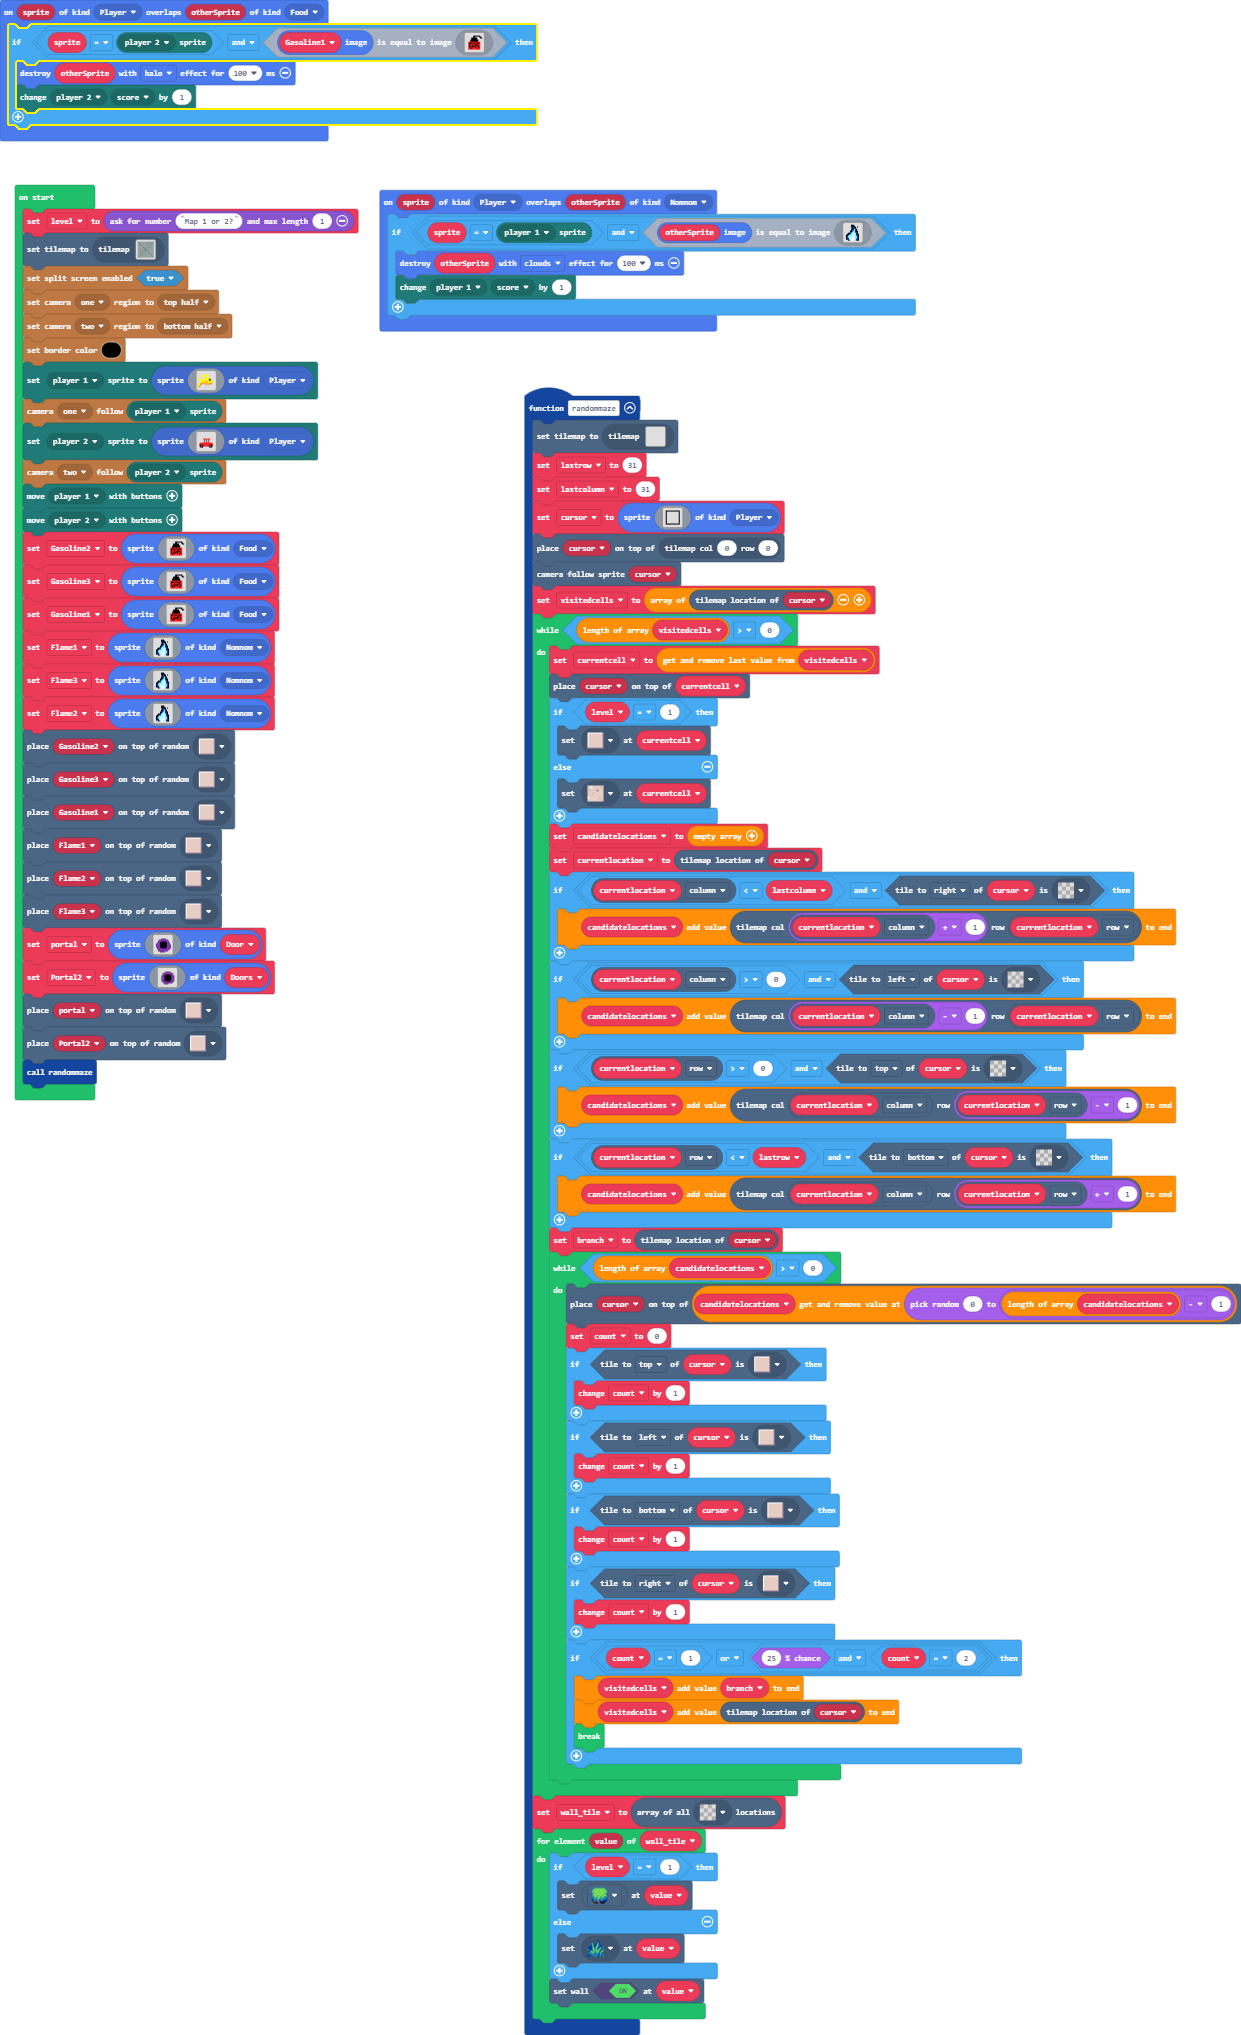
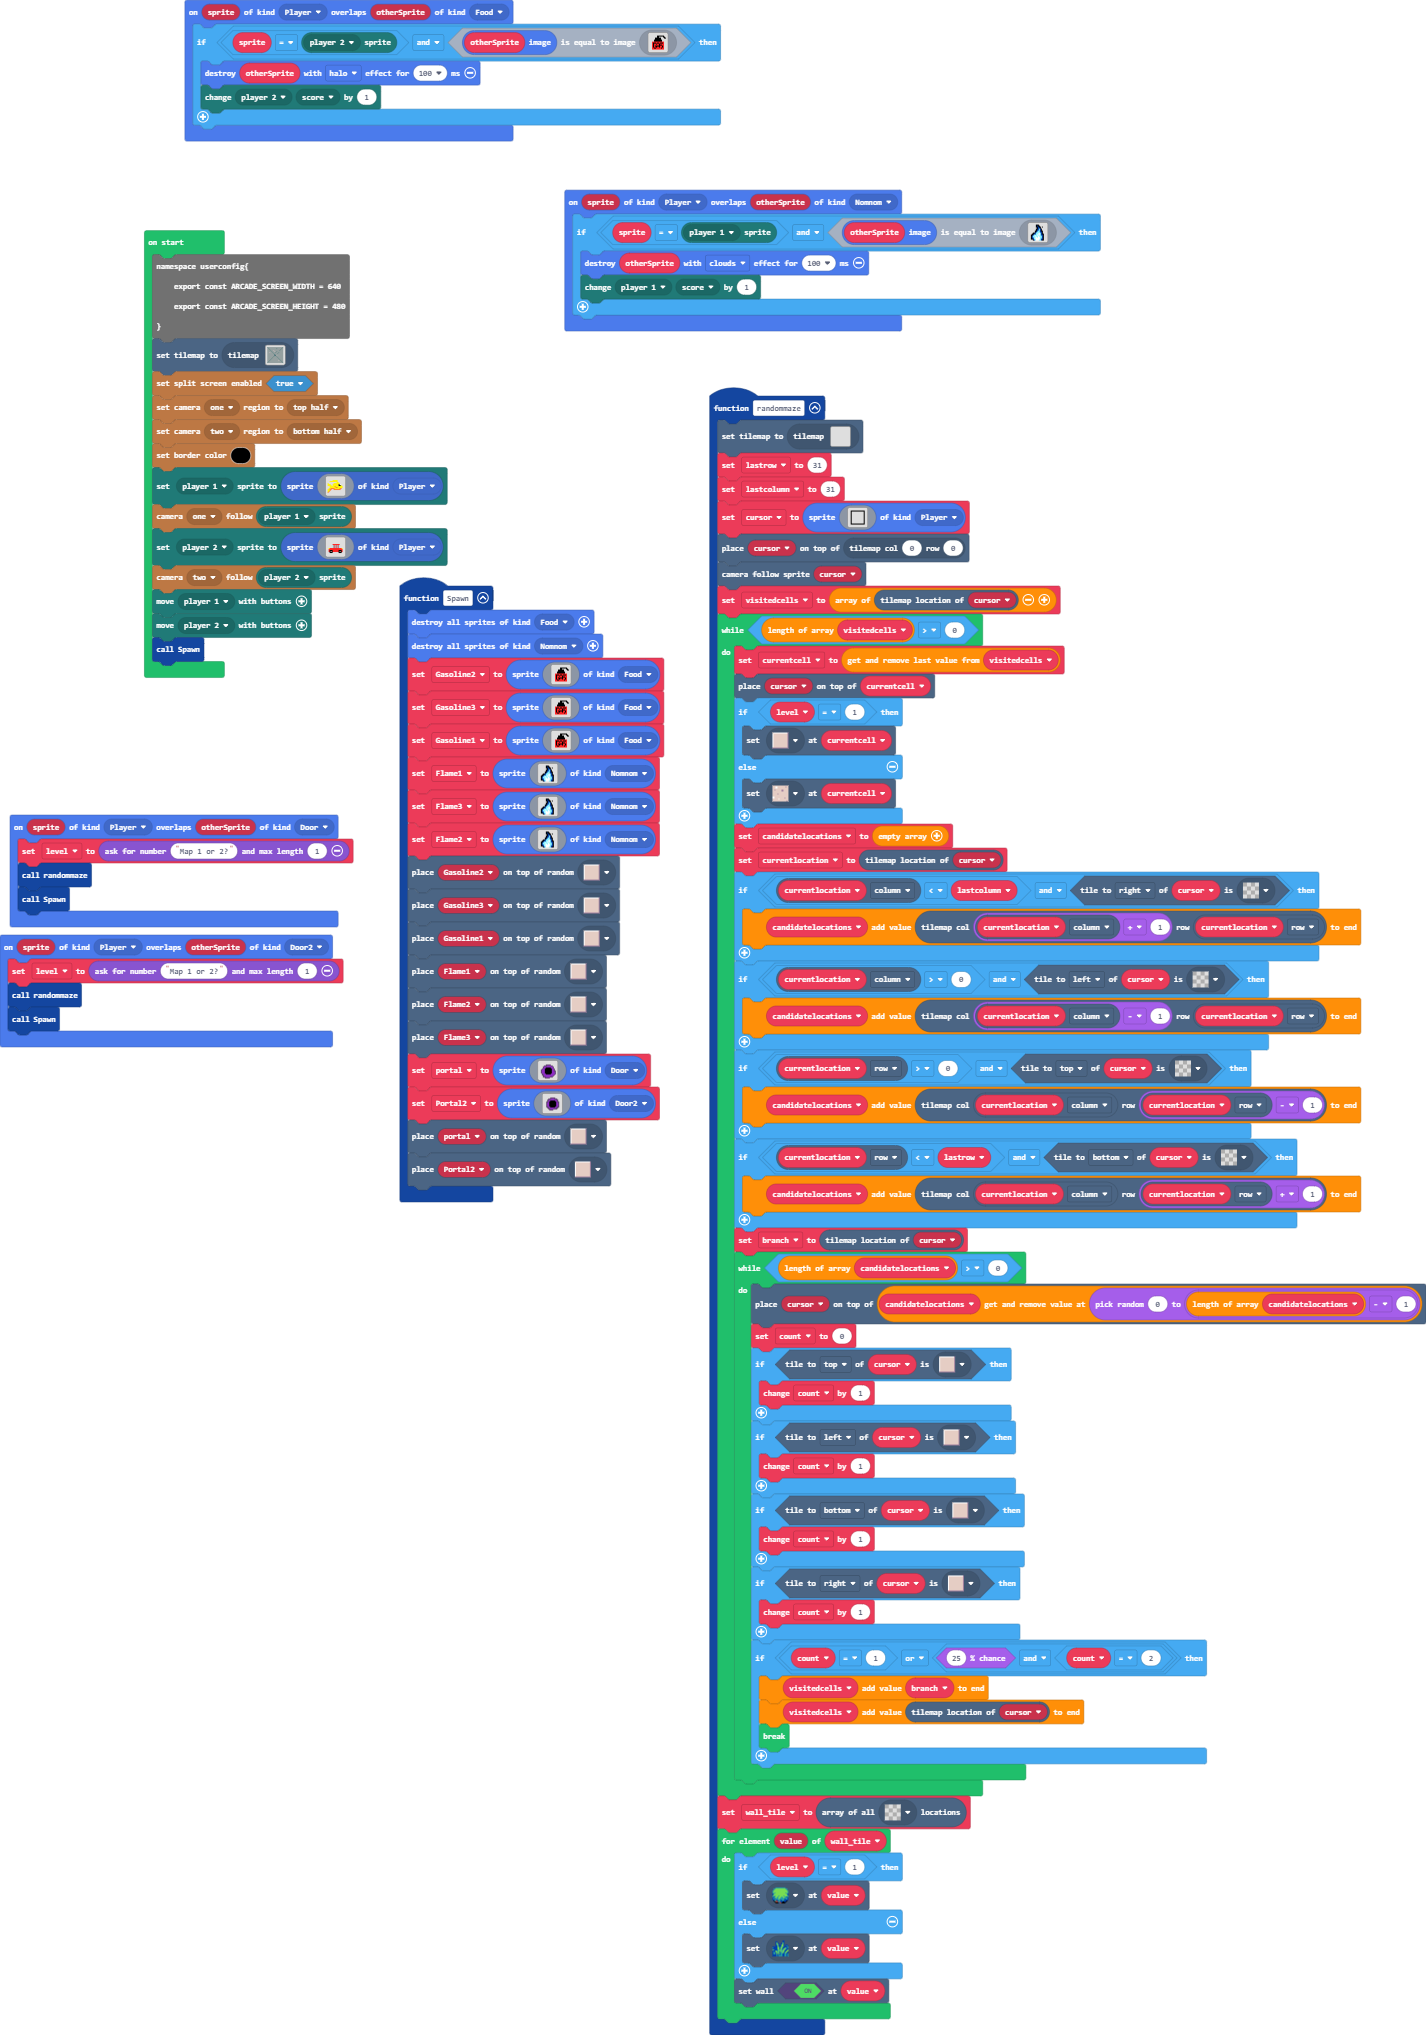
portals and other function

diff --git a/main.ts b/main.ts
@@ -1,5 +1,7 @@
 namespace SpriteKind {
     export const Nomnom = SpriteKind.create()
+    export const Door2 = SpriteKind.create()
+    export const Door = SpriteKind.create()
 }
 function randommaze () {
     tiles.setCurrentTilemap(tilemap`level2`)
@@ -81,6 +83,11 @@ function randommaze () {
         tiles.setWallAt(value, true)
     }
 }
+sprites.onOverlap(SpriteKind.Player, SpriteKind.Door, function (sprite, otherSprite) {
+    level = game.askForNumber("Map 1 or 2?", 1)
+    randommaze()
+    Spawn()
+})
 sprites.onOverlap(SpriteKind.Player, SpriteKind.Nomnom, function (sprite, otherSprite) {
     if (sprite == mp.getPlayerSprite(mp.playerSelector(mp.PlayerNumber.One)) && otherSprite.image.equals(img`
         . . . . . . f f f . . . . . . . 
@@ -104,27 +111,145 @@ sprites.onOverlap(SpriteKind.Player, SpriteKind.Nomnom, function (sprite, otherS
         mp.changePlayerStateBy(mp.playerSelector(mp.PlayerNumber.One), MultiplayerState.score, 1)
     }
 })
+function Spawn () {
+    sprites.destroyAllSpritesOfKind(SpriteKind.Food)
+    sprites.destroyAllSpritesOfKind(SpriteKind.Nomnom)
+    Gasoline2 = sprites.create(assets.image`myImage`, SpriteKind.Food)
+    Gasoline3 = sprites.create(assets.image`myImage`, SpriteKind.Food)
+    Gasoline1 = sprites.create(assets.image`myImage`, SpriteKind.Food)
+    Flame1 = sprites.create(img`
+        . . . . . . f f f . . . . . . . 
+        . . . . . . f 8 f f . . . . . . 
+        . . . . . . f f 8 f f . f . . . 
+        . . . . . . . f 8 8 f . . . . . 
+        . . . . . . f f 8 9 8 f . . . . 
+        . . . . . . f 8 8 9 8 f . . . . 
+        . . . . . f f 8 9 9 8 f f . . . 
+        . . . . . f 8 9 9 9 8 8 f . . . 
+        . . . f f 8 9 9 9 1 9 8 f . . . 
+        . . f f 8 8 9 9 1 1 9 8 f f . . 
+        . f f 8 9 9 9 1 9 1 9 8 8 f . . 
+        . f 8 9 9 1 9 9 1 9 9 9 8 f . . 
+        . f 8 9 9 9 1 9 1 1 9 9 8 f . . 
+        . f 8 8 9 1 1 1 1 1 9 9 8 f . . 
+        . f f 8 9 9 1 1 1 1 9 8 8 f . . 
+        . . . f 8 9 1 1 1 9 9 8 f f . . 
+        `, SpriteKind.Nomnom)
+    Flame3 = sprites.create(img`
+        . . . . . . f f f . . . . . . . 
+        . . . . . . f 8 f f . . . . . . 
+        . . . . . . f f 8 f f . f . . . 
+        . . . . . . . f 8 8 f . . . . . 
+        . . . . . . f f 8 9 8 f . . . . 
+        . . . . . . f 8 8 9 8 f . . . . 
+        . . . . . f f 8 9 9 8 f f . . . 
+        . . . . . f 8 9 9 9 8 8 f . . . 
+        . . . f f 8 9 9 9 1 9 8 f . . . 
+        . . f f 8 8 9 9 1 1 9 8 f f . . 
+        . f f 8 9 9 9 1 9 1 9 8 8 f . . 
+        . f 8 9 9 1 9 9 1 9 9 9 8 f . . 
+        . f 8 9 9 9 1 9 1 1 9 9 8 f . . 
+        . f 8 8 9 1 1 1 1 1 9 9 8 f . . 
+        . f f 8 9 9 1 1 1 1 9 8 8 f . . 
+        . . . f 8 9 1 1 1 9 9 8 f f . . 
+        `, SpriteKind.Nomnom)
+    Flame2 = sprites.create(img`
+        . . . . . . f f f . . . . . . . 
+        . . . . . . f 8 f f . . . . . . 
+        . . . . . . f f 8 f f . f . . . 
+        . . . . . . . f 8 8 f . . . . . 
+        . . . . . . f f 8 9 8 f . . . . 
+        . . . . . . f 8 8 9 8 f . . . . 
+        . . . . . f f 8 9 9 8 f f . . . 
+        . . . . . f 8 9 9 9 8 8 f . . . 
+        . . . f f 8 9 9 9 1 9 8 f . . . 
+        . . f f 8 8 9 9 1 1 9 8 f f . . 
+        . f f 8 9 9 9 1 9 1 9 8 8 f . . 
+        . f 8 9 9 1 9 9 1 9 9 9 8 f . . 
+        . f 8 9 9 9 1 9 1 1 9 9 8 f . . 
+        . f 8 8 9 1 1 1 1 1 9 9 8 f . . 
+        . f f 8 9 9 1 1 1 1 9 8 8 f . . 
+        . . . f 8 9 1 1 1 9 9 8 f f . . 
+        `, SpriteKind.Nomnom)
+    tiles.placeOnRandomTile(Gasoline2, sprites.dungeon.floorLight2)
+    tiles.placeOnRandomTile(Gasoline3, sprites.dungeon.floorLight2)
+    tiles.placeOnRandomTile(Gasoline1, sprites.dungeon.floorLight2)
+    tiles.placeOnRandomTile(Flame1, sprites.dungeon.floorLight2)
+    tiles.placeOnRandomTile(Flame2, sprites.dungeon.floorLight2)
+    tiles.placeOnRandomTile(Flame3, sprites.dungeon.floorLight2)
+    portal = sprites.create(img`
+        . . . . . . . . . . . . . . . . 
+        . . . . . . . . . . . . . . . . 
+        . . . . . . c c c c c . . . . . 
+        . . . . c c c a a a a c c . . . 
+        . . . c a a a a a a a a a c . . 
+        . . . c a a f f f f f a a c . . 
+        . . c a a f f f f f f f a a c . 
+        . c a a a f f f f f f f a a c . 
+        . c a a a f f f f f f f a a c c 
+        . c a a a f f f f f f f a a a c 
+        . c a a a f f f f f f f a a a c 
+        . . c a a a f f f f f a a a a c 
+        . . c c a a a a a a a a a a c . 
+        . . . c a a a a a a a a a c . . 
+        . . . c c c a a a a c c c . . . 
+        . . . . . c c c c c . . . . . . 
+        `, SpriteKind.Door)
+    Portal2 = sprites.create(img`
+        . . . . . . . . . . . . . . . . 
+        . . . . . . . . . . . . . . . . 
+        . . . . . . c c c c c . . . . . 
+        . . . . c c c a a a c c c . . . 
+        . . . c c a a a a a a a c c . . 
+        . . . c a a f f f f f a a c . . 
+        . . c c a f f f f f f f a c c . 
+        . . c a a f f f f f f f a a c . 
+        . . c a a f f f f f f f a a c . 
+        . . c a a f f f f f f f a a c . 
+        . . c a a f f f f f f f a a c . 
+        . . c c a a f f f f f a a c c . 
+        . . . c c a a a a a a a c c . . 
+        . . . . c c a a a c c c c . . . 
+        . . . . . c c c c . . . . . . . 
+        . . . . . . . . . . . . . . . . 
+        `, SpriteKind.Door2)
+    tiles.placeOnRandomTile(portal, sprites.dungeon.floorLight2)
+    tiles.placeOnRandomTile(Portal2, sprites.dungeon.floorLight2)
+}
 sprites.onOverlap(SpriteKind.Player, SpriteKind.Food, function (sprite, otherSprite) {
-    if (sprite == mp.getPlayerSprite(mp.playerSelector(mp.PlayerNumber.Two)) && Gasoline1.image.equals(assets.image`myImage`)) {
+    if (sprite == mp.getPlayerSprite(mp.playerSelector(mp.PlayerNumber.Two)) && otherSprite.image.equals(assets.image`myImage`)) {
         sprites.destroy(otherSprite, effects.halo, 100)
         mp.changePlayerStateBy(mp.playerSelector(mp.PlayerNumber.Two), MultiplayerState.score, 1)
     }
 })
+sprites.onOverlap(SpriteKind.Player, SpriteKind.Door2, function (sprite, otherSprite) {
+    level = game.askForNumber("Map 1 or 2?", 1)
+    randommaze()
+    Spawn()
+})
+let Portal2: Sprite = null
+let portal: Sprite = null
+let Flame2: Sprite = null
+let Flame3: Sprite = null
+let Flame1: Sprite = null
+let Gasoline1: Sprite = null
+let Gasoline3: Sprite = null
+let Gasoline2: Sprite = null
 let wall_tile: tiles.Location[] = []
 let count = 0
 let branch: tiles.Location = null
 let currentlocation: tiles.Location = null
 let candidatelocations: tiles.Location[] = []
+let level = 0
 let currentcell: tiles.Location = null
 let visitedcells: tiles.Location[] = []
 let cursor: Sprite = null
 let lastcolumn = 0
 let lastrow = 0
-let Doors = 0
-let Door = 0
-let Gasoline1: Sprite = null
-let level = 0
-level = game.askForNumber("Map 1 or 2?", 1)
+namespace userconfig{
+    export const ARCADE_SCREEN_WIDTH = 640
+    export const ARCADE_SCREEN_HEIGHT = 480
+}
 tiles.setCurrentTilemap(tilemap`level3`)
 splitScreen.setSplitScreenEnabled(true)
 splitScreen.setCameraRegion(splitScreen.Camera.Camera1, splitScreen.CameraRegion.HorizontalTopHalf)
@@ -170,105 +295,4 @@ mp.setPlayerSprite(mp.playerSelector(mp.PlayerNumber.Two), sprites.create(img`
 splitScreen.cameraFollowSprite(splitScreen.Camera.Camera2, mp.getPlayerSprite(mp.playerSelector(mp.PlayerNumber.Two)))
 mp.moveWithButtons(mp.playerSelector(mp.PlayerNumber.One))
 mp.moveWithButtons(mp.playerSelector(mp.PlayerNumber.Two))
-let Gasoline2 = sprites.create(assets.image`myImage`, SpriteKind.Food)
-let Gasoline3 = sprites.create(assets.image`myImage`, SpriteKind.Food)
-Gasoline1 = sprites.create(assets.image`myImage`, SpriteKind.Food)
-let Flame1 = sprites.create(img`
-    . . . . . . f f f . . . . . . . 
-    . . . . . . f 8 f f . . . . . . 
-    . . . . . . f f 8 f f . f . . . 
-    . . . . . . . f 8 8 f . . . . . 
-    . . . . . . f f 8 9 8 f . . . . 
-    . . . . . . f 8 8 9 8 f . . . . 
-    . . . . . f f 8 9 9 8 f f . . . 
-    . . . . . f 8 9 9 9 8 8 f . . . 
-    . . . f f 8 9 9 9 1 9 8 f . . . 
-    . . f f 8 8 9 9 1 1 9 8 f f . . 
-    . f f 8 9 9 9 1 9 1 9 8 8 f . . 
-    . f 8 9 9 1 9 9 1 9 9 9 8 f . . 
-    . f 8 9 9 9 1 9 1 1 9 9 8 f . . 
-    . f 8 8 9 1 1 1 1 1 9 9 8 f . . 
-    . f f 8 9 9 1 1 1 1 9 8 8 f . . 
-    . . . f 8 9 1 1 1 9 9 8 f f . . 
-    `, SpriteKind.Nomnom)
-let Flame3 = sprites.create(img`
-    . . . . . . f f f . . . . . . . 
-    . . . . . . f 8 f f . . . . . . 
-    . . . . . . f f 8 f f . f . . . 
-    . . . . . . . f 8 8 f . . . . . 
-    . . . . . . f f 8 9 8 f . . . . 
-    . . . . . . f 8 8 9 8 f . . . . 
-    . . . . . f f 8 9 9 8 f f . . . 
-    . . . . . f 8 9 9 9 8 8 f . . . 
-    . . . f f 8 9 9 9 1 9 8 f . . . 
-    . . f f 8 8 9 9 1 1 9 8 f f . . 
-    . f f 8 9 9 9 1 9 1 9 8 8 f . . 
-    . f 8 9 9 1 9 9 1 9 9 9 8 f . . 
-    . f 8 9 9 9 1 9 1 1 9 9 8 f . . 
-    . f 8 8 9 1 1 1 1 1 9 9 8 f . . 
-    . f f 8 9 9 1 1 1 1 9 8 8 f . . 
-    . . . f 8 9 1 1 1 9 9 8 f f . . 
-    `, SpriteKind.Nomnom)
-let Flame2 = sprites.create(img`
-    . . . . . . f f f . . . . . . . 
-    . . . . . . f 8 f f . . . . . . 
-    . . . . . . f f 8 f f . f . . . 
-    . . . . . . . f 8 8 f . . . . . 
-    . . . . . . f f 8 9 8 f . . . . 
-    . . . . . . f 8 8 9 8 f . . . . 
-    . . . . . f f 8 9 9 8 f f . . . 
-    . . . . . f 8 9 9 9 8 8 f . . . 
-    . . . f f 8 9 9 9 1 9 8 f . . . 
-    . . f f 8 8 9 9 1 1 9 8 f f . . 
-    . f f 8 9 9 9 1 9 1 9 8 8 f . . 
-    . f 8 9 9 1 9 9 1 9 9 9 8 f . . 
-    . f 8 9 9 9 1 9 1 1 9 9 8 f . . 
-    . f 8 8 9 1 1 1 1 1 9 9 8 f . . 
-    . f f 8 9 9 1 1 1 1 9 8 8 f . . 
-    . . . f 8 9 1 1 1 9 9 8 f f . . 
-    `, SpriteKind.Nomnom)
-tiles.placeOnRandomTile(Gasoline2, sprites.dungeon.floorLight2)
-tiles.placeOnRandomTile(Gasoline3, sprites.dungeon.floorLight2)
-tiles.placeOnRandomTile(Gasoline1, sprites.dungeon.floorLight2)
-tiles.placeOnRandomTile(Flame1, sprites.dungeon.floorLight2)
-tiles.placeOnRandomTile(Flame2, sprites.dungeon.floorLight2)
-tiles.placeOnRandomTile(Flame3, sprites.dungeon.floorLight2)
-let portal = sprites.create(img`
-    . . . . . . . . . . . . . . . . 
-    . . . . . . . . . . . . . . . . 
-    . . . . . . c c c c c . . . . . 
-    . . . . c c c a a a a c c . . . 
-    . . . c a a a a a a a a a c . . 
-    . . . c a a f f f f f a a c . . 
-    . . c a a f f f f f f f a a c . 
-    . c a a a f f f f f f f a a c . 
-    . c a a a f f f f f f f a a c c 
-    . c a a a f f f f f f f a a a c 
-    . c a a a f f f f f f f a a a c 
-    . . c a a a f f f f f a a a a c 
-    . . c c a a a a a a a a a a c . 
-    . . . c a a a a a a a a a c . . 
-    . . . c c c a a a a c c c . . . 
-    . . . . . c c c c c . . . . . . 
-    `, Door)
-let Portal2 = sprites.create(img`
-    . . . . . . . . . . . . . . . . 
-    . . . . . . . . . . . . . . . . 
-    . . . . . . c c c c c . . . . . 
-    . . . . c c c a a a c c c . . . 
-    . . . c c a a a a a a a c c . . 
-    . . . c a a f f f f f a a c . . 
-    . . c c a f f f f f f f a c c . 
-    . . c a a f f f f f f f a a c . 
-    . . c a a f f f f f f f a a c . 
-    . . c a a f f f f f f f a a c . 
-    . . c a a f f f f f f f a a c . 
-    . . c c a a f f f f f a a c c . 
-    . . . c c a a a a a a a c c . . 
-    . . . . c c a a a c c c c . . . 
-    . . . . . c c c c . . . . . . . 
-    . . . . . . . . . . . . . . . . 
-    `, Doors)
-tiles.placeOnRandomTile(portal, sprites.dungeon.floorLight2)
-tiles.placeOnRandomTile(Portal2, sprites.dungeon.floorLight2)
-randommaze()
+Spawn()
